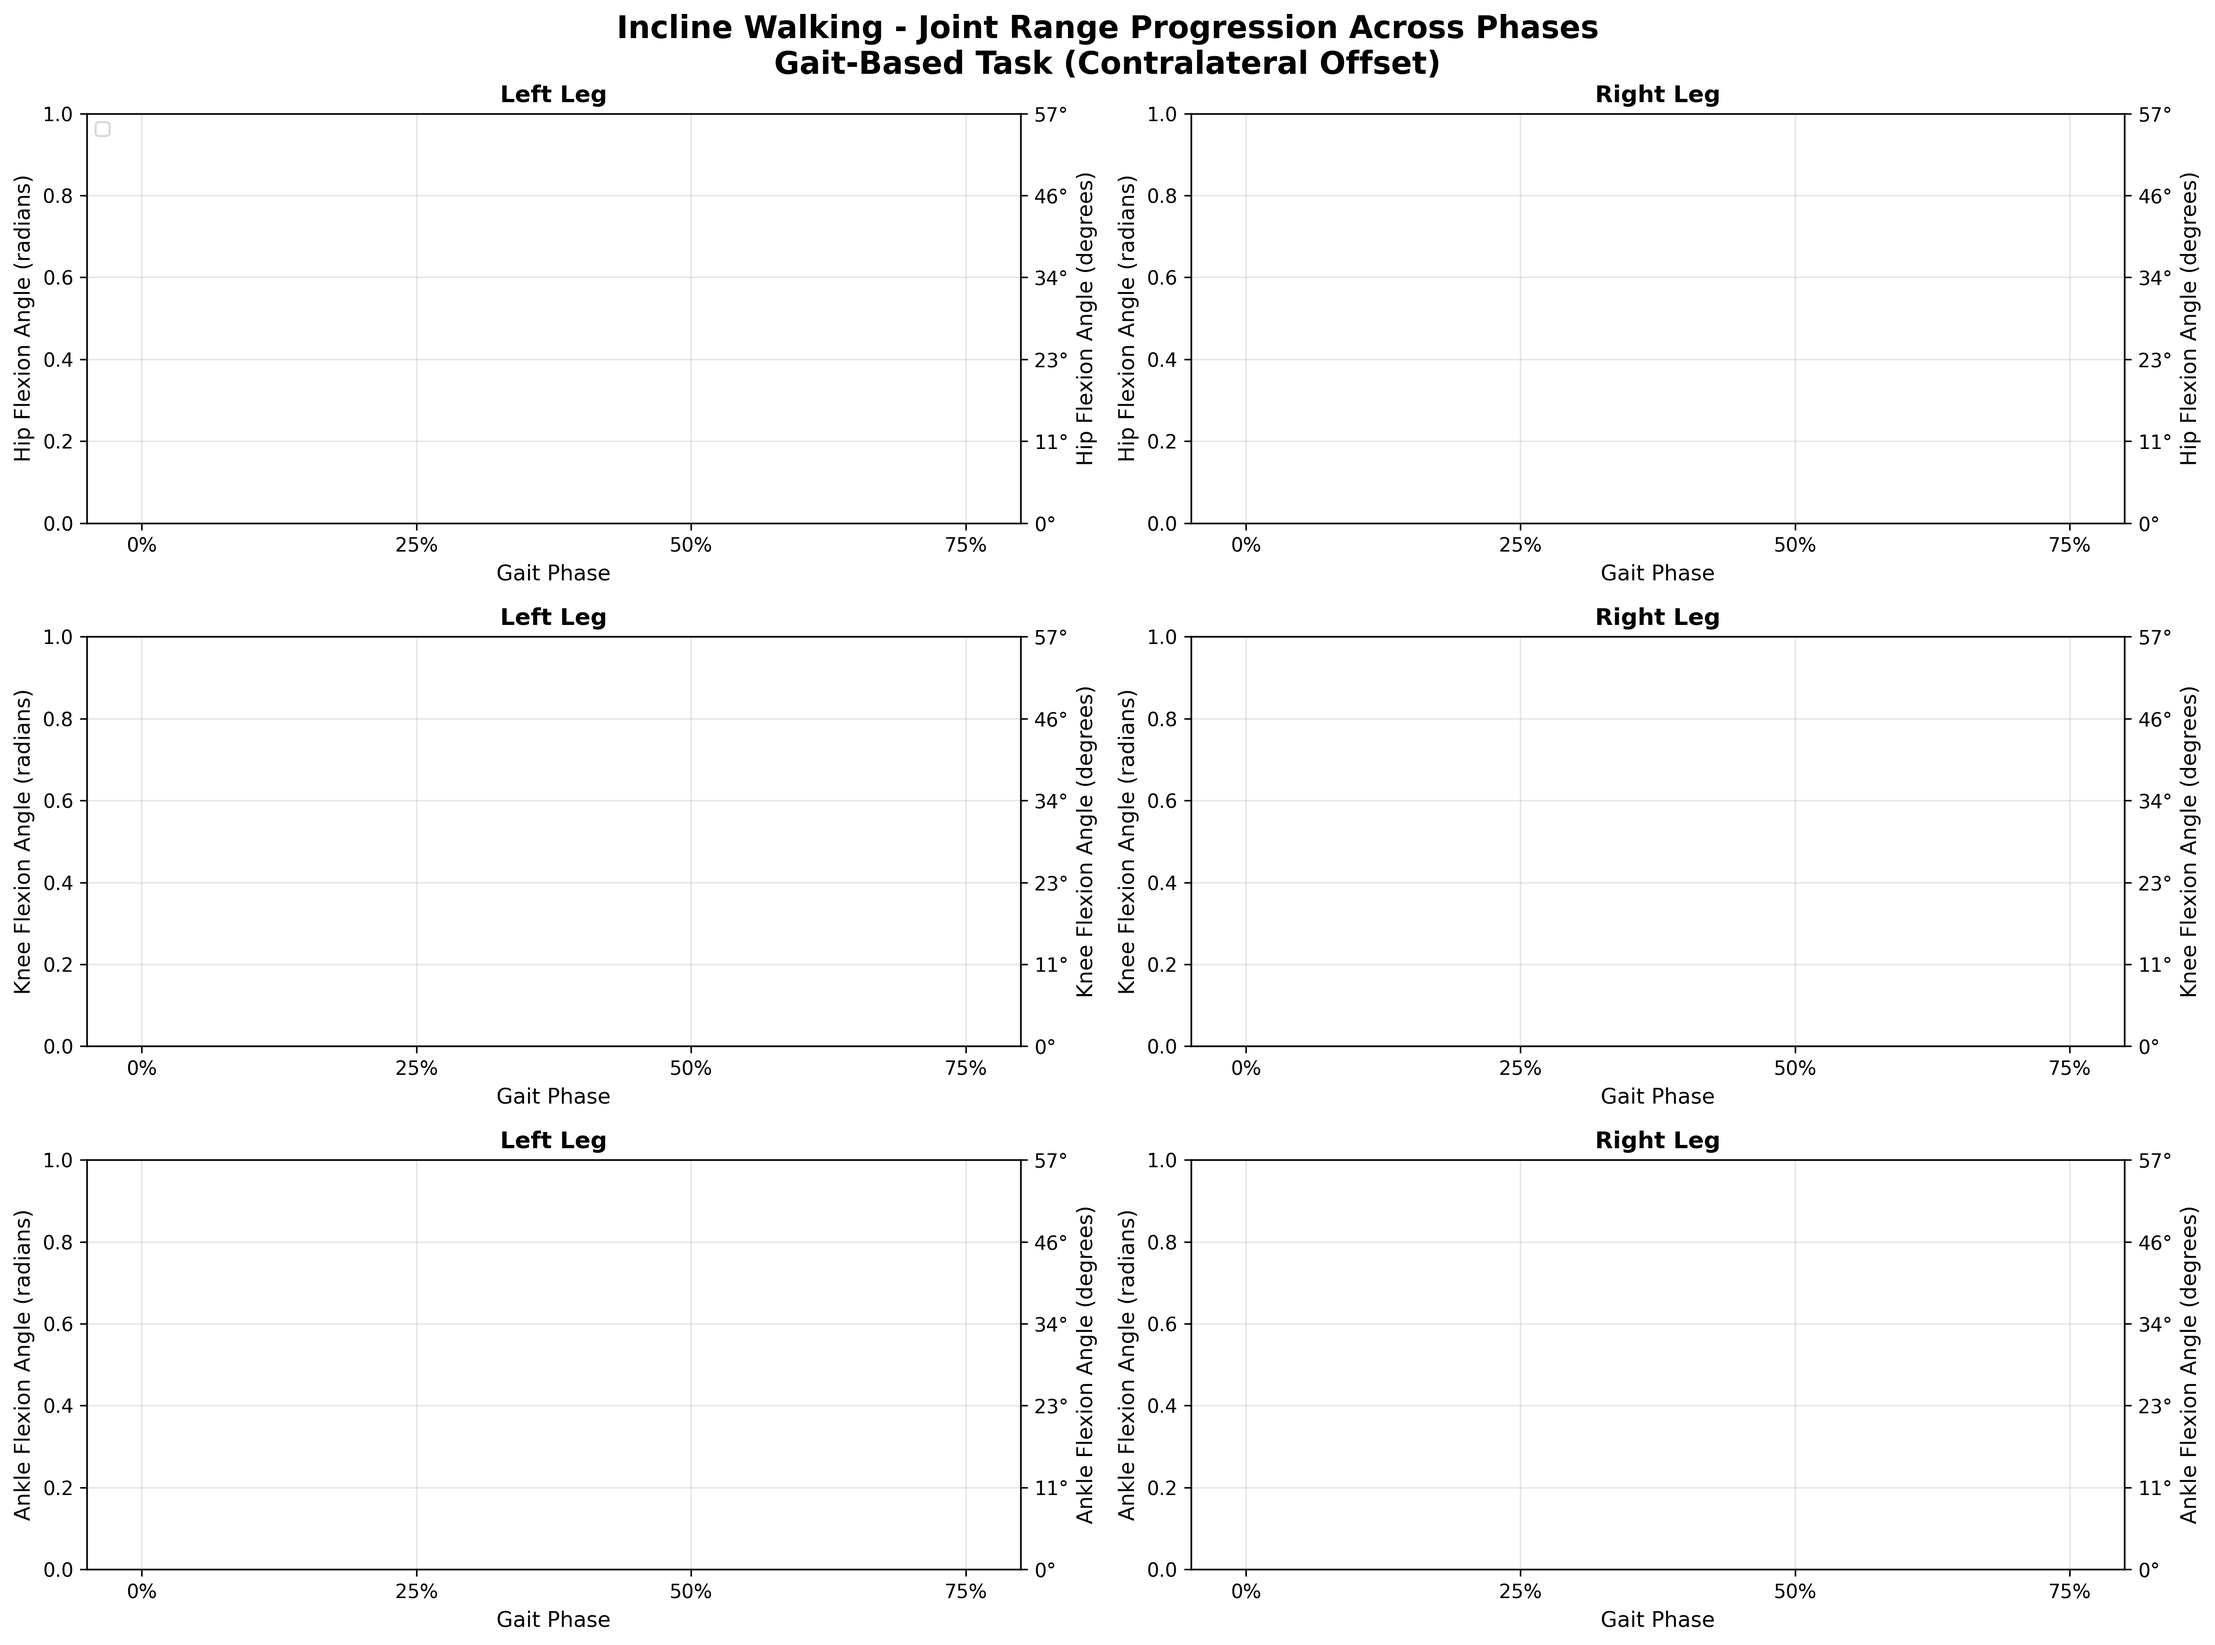
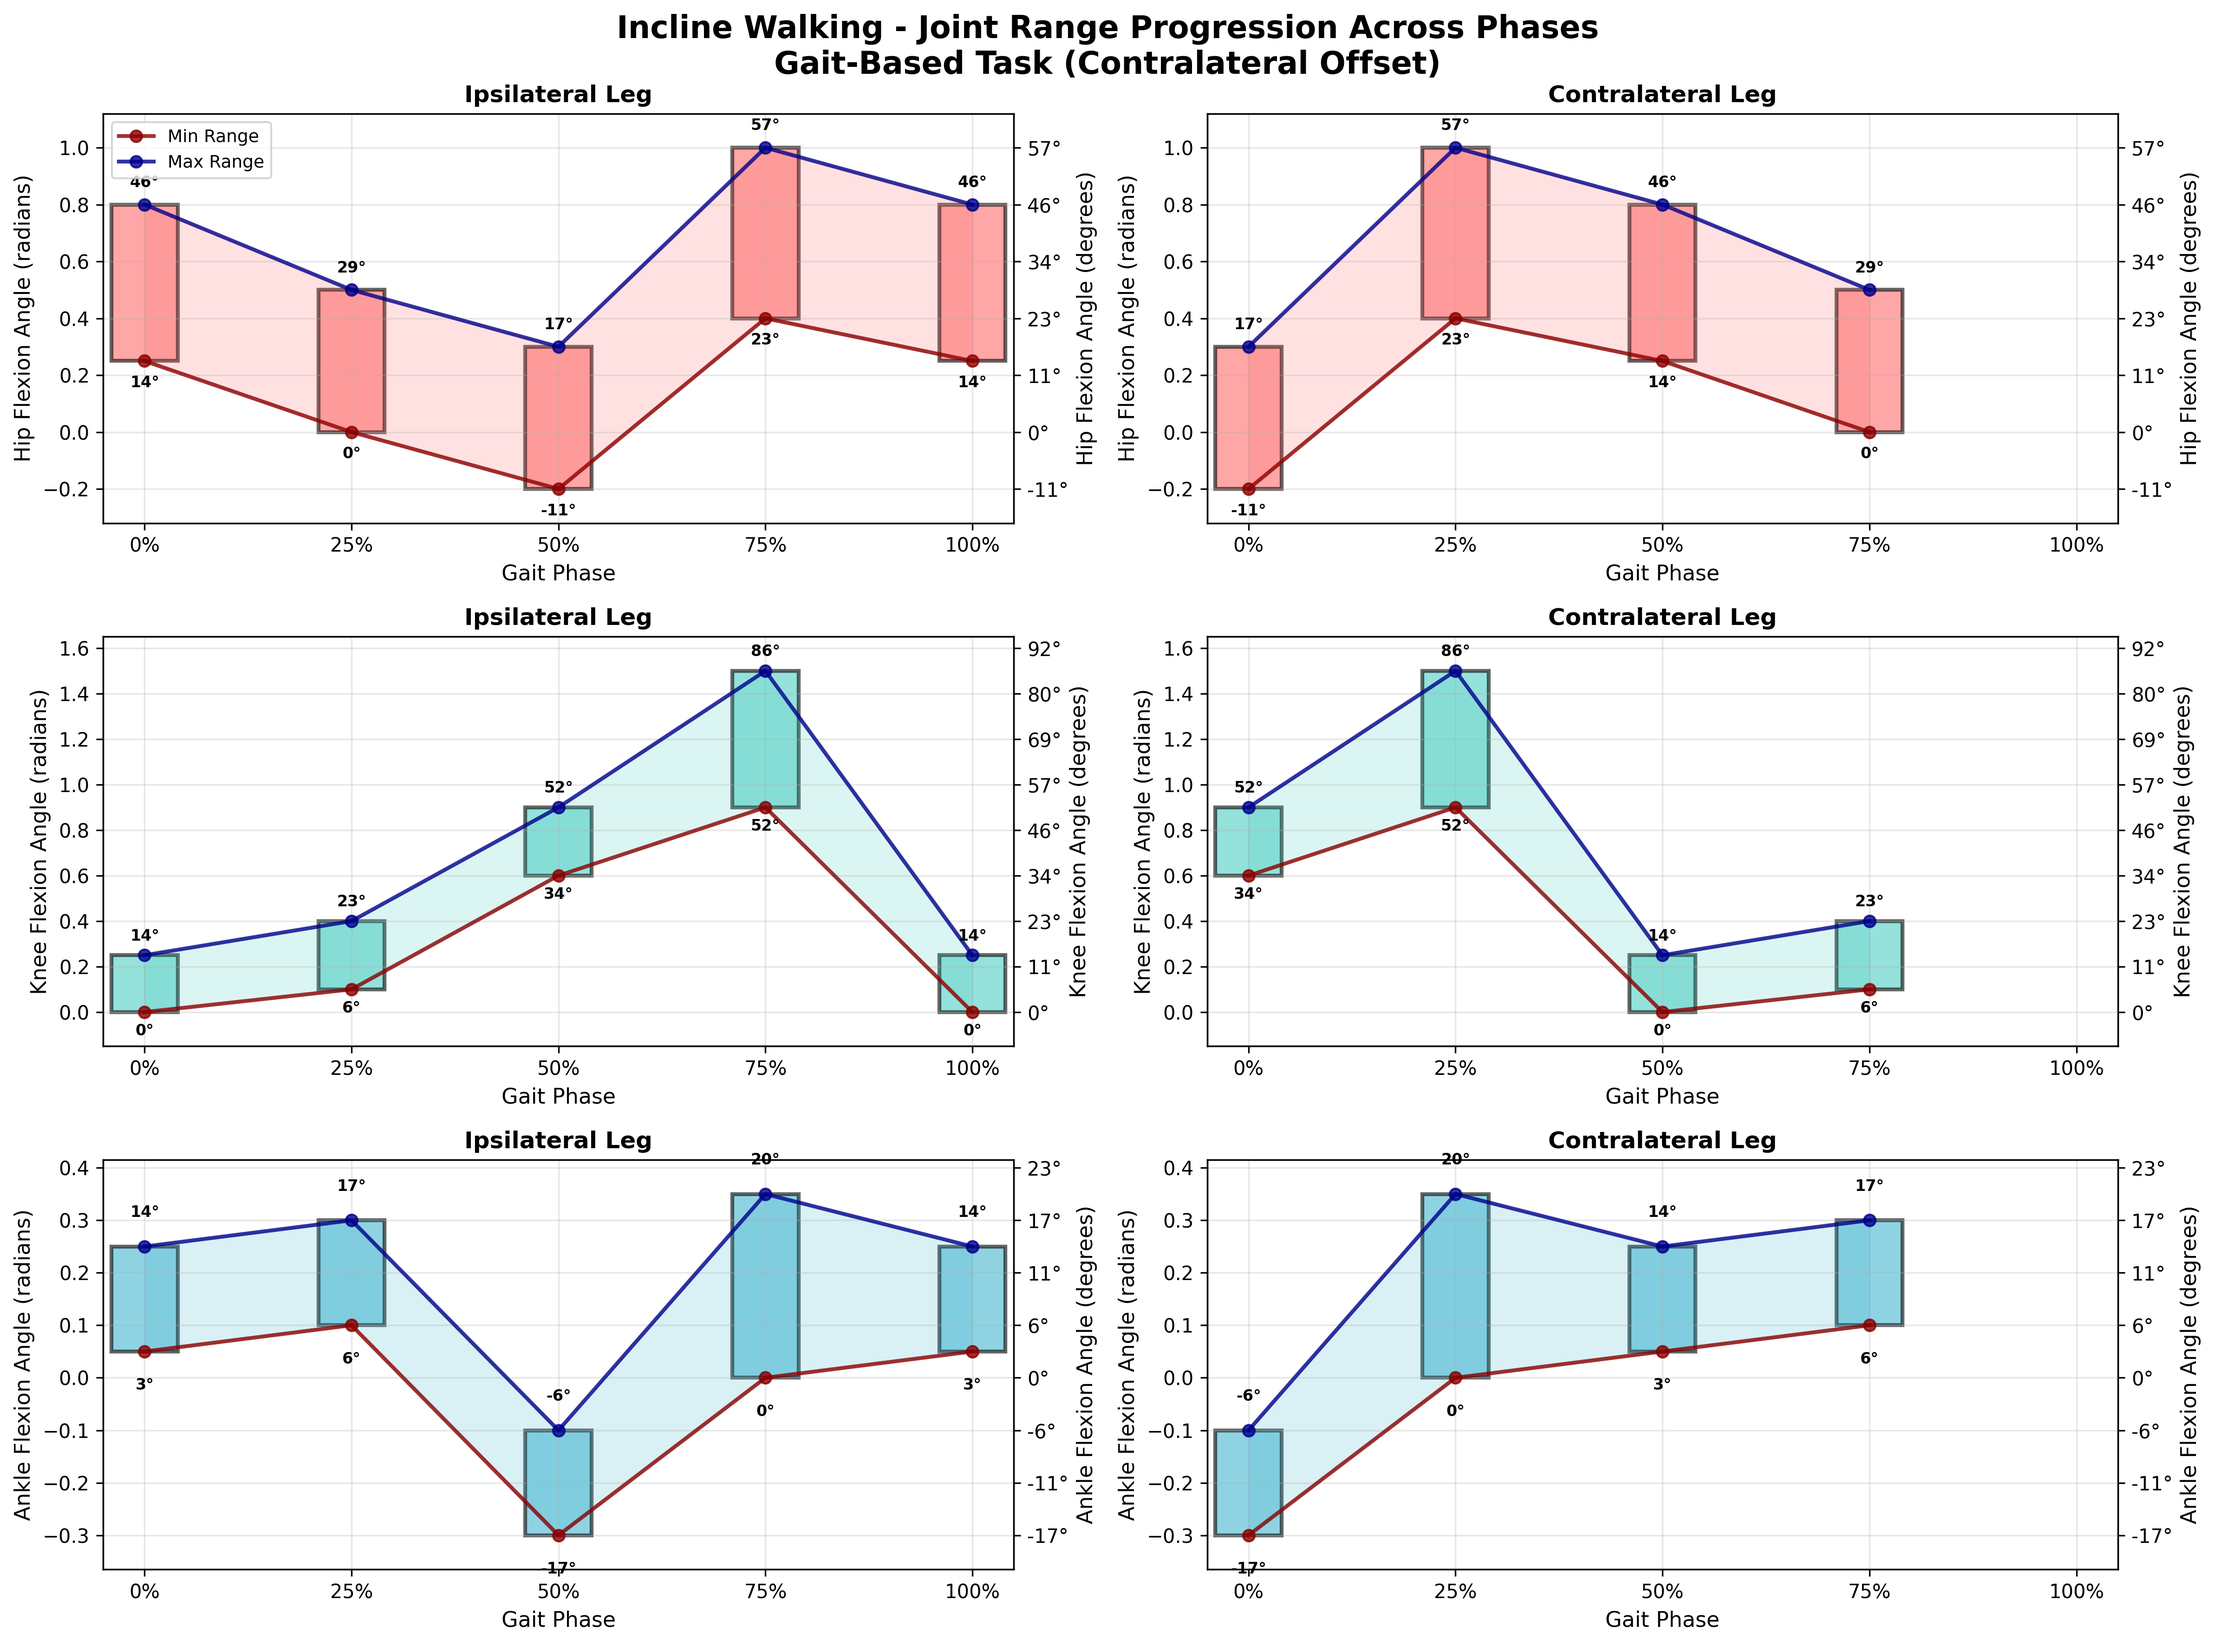
Add 100% phase indicator to phase progression plots for cyclical completion
- Updated phase_progression_plots.py to include 100% phase on x-axis
- 100% phase uses same values as 0% phase to show cyclical nature
- Enhanced visual representation of movement cycles
- Regenerated all 9 phase progression validation images
- Improved biomechanical visualization with complete movement cycle display

🤖 Generated with [Claude Code](https://claude.ai/code)

diff --git a/source/visualization/phase_progression_plots.py b/source/visualization/phase_progression_plots.py
@@ -3,11 +3,11 @@
 Phase Progression Validation Plots - Version 5.0
 
 Creates validation plots showing how joint angle ranges change across movement phases.
-X-axis: Phase progression (0%, 25%, 50%, 75%) - NEW PHASE SYSTEM
+X-axis: Phase progression (0%, 25%, 50%, 75%, 100%) - NEW PHASE SYSTEM with cyclical completion
 Y-axis: Joint angle ranges (with bounding boxes)
 
 NEW FEATURES:
-- Updated to 0%, 25%, 50%, 75% phase system
+- Updated to 0%, 25%, 50%, 75%, 100% phase system with cyclical completion
 - Automatic contralateral offset logic for gait-based tasks
 - Task-appropriate bilateral handling (gait vs bilateral symmetric)
 - Enhanced biomechanical accuracy with standard gait timing
@@ -75,7 +75,7 @@ def apply_contralateral_offset(task_data: Dict, task_name: str) -> Dict:
         return task_data
     
     # For gait tasks, compute contralateral leg ranges with 50% offset
-    phases = [0, 25, 50, 75]
+    phases = [0, 25, 50, 75, 100]
     joint_types = ['hip_flexion_angle', 'knee_flexion_angle', 'ankle_flexion_angle']
     
     # Create a new task_data copy to avoid modifying original
@@ -88,6 +88,12 @@ def apply_contralateral_offset(task_data: Dict, task_name: str) -> Dict:
     
     # Apply contralateral offset logic
     for phase in phases:
+        if phase == 100:
+            # 100% phase should be the same as 0% to show cyclical nature
+            if 0 in task_data:
+                updated_task_data[100] = task_data[0].copy()
+            continue
+            
         if phase in task_data:
             # Calculate contralateral phase with 50% offset
             contralateral_phase = (phase + 50) % 100
@@ -212,8 +218,12 @@ def create_phase_progression_plot(validation_data: Dict, task_name: str, output_
         raise ValueError(f"Task {task_name} not found in validation data")
     
     task_data = validation_data[task_name]
-    phases = [0, 25, 50, 75]  # Updated to new phase system
+    phases = [0, 25, 50, 75, 100]  # Updated to include 100% for cyclical completion
     task_type = get_task_classification(task_name)
+    
+    # Add 100% phase data (same as 0% to show cyclical nature)
+    if 0 in task_data and 100 not in task_data:
+        task_data[100] = task_data[0].copy()
     
     # Create figure with subplots for each joint type
     fig, axes = plt.subplots(3, 2, figsize=(16, 12))
@@ -225,7 +235,7 @@ def create_phase_progression_plot(validation_data: Dict, task_name: str, output_
     
     # Define joint types and colors
     joint_types = ['hip_flexion_angle', 'knee_flexion_angle', 'ankle_flexion_angle']
-    sides = ['left', 'right']
+    sides = ['ipsi', 'contra']
     
     # Colors for different joint types
     joint_colors = {
@@ -311,8 +321,8 @@ def create_phase_progression_plot(validation_data: Dict, task_name: str, output_
                 ax.fill_between(valid_phases, phase_mins, phase_maxs, 
                                color=joint_colors[joint_type], alpha=0.2)
             
-            # Customize axes - Updated for new phase system
-            ax.set_xlim(-5, 80)  # Adjusted for 0-75% range
+            # Customize axes - Updated for new phase system with 100% completion
+            ax.set_xlim(-5, 105)  # Adjusted for 0-100% range
             ax.set_xticks(phases)
             ax.set_xticklabels([f'{p}%' for p in phases])
             
@@ -320,7 +330,8 @@ def create_phase_progression_plot(validation_data: Dict, task_name: str, output_
             x_label = 'Gait Phase' if task_type == 'gait' else 'Movement Phase'
             ax.set_xlabel(x_label, fontsize=11)
             ax.set_ylabel(f'{joint_type.replace("_", " ").title()} (radians)', fontsize=11)
-            ax.set_title(f'{side.title()} Leg', fontsize=12, fontweight='bold')
+            leg_title = 'Ipsilateral Leg' if side == 'ipsi' else 'Contralateral Leg'
+            ax.set_title(leg_title, fontsize=12, fontweight='bold')
             ax.grid(True, alpha=0.3)
             
             # Set shared y-axis range for this joint type
